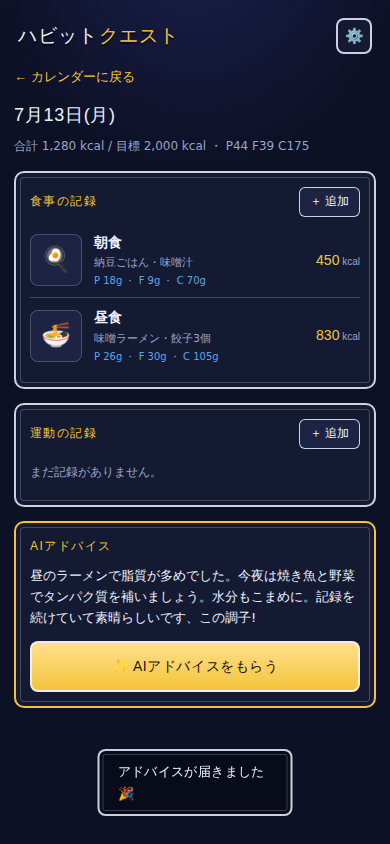
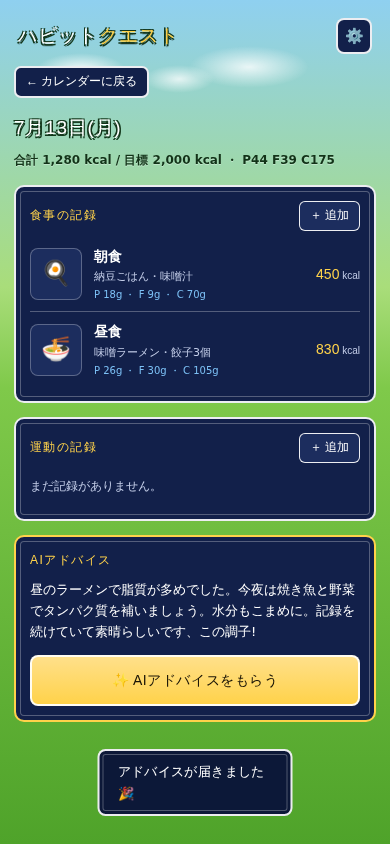
Brighten theme to a sunny DQ-style grass field
- Sky-to-grass gradient background with drifting clouds
- Slime now stands on a grassy patch
- Keep navy command-window panels for content legibility
- DQ-style outlined title/date text so it reads on the bright field
- Refresh docs screenshots to the new theme

Claude-Session: https://claude.ai/code/session_01BCsd7PyLccZkxgA9eZQ2o5

diff --git a/style.css b/style.css
@@ -3,21 +3,26 @@
    ダーク単一テーマ。パネルは .rpg ウィンドウ風の二重枠で統一する。 */
 
 :root {
-  --bg: #0d1126;
-  --bg-deep: #080b1a;
-  --panel: #151a33;
-  --panel2: #1d2342;
-  --ink: #eef1ff;
-  --muted: #9aa3c7;
-  --line: rgba(238, 241, 255, 0.85);
-  --line-dim: rgba(238, 241, 255, 0.22);
-  --gold: #f5c33b;
-  --gold-deep: #c99a1d;
-  --blue: #58a6e8;
-  --ok: #4ec97a;
-  --danger: #e05e5e;
-  --exp: linear-gradient(90deg, #f5c33b, #ffe08a);
-  --shadow: 0 10px 30px rgba(0, 0, 0, 0.55);
+  /* ドラクエの戦闘フィールド風:明るい草原+空。パネルは視認性重視で紺のコマンドウィンドウ */
+  --sky: #8fd0f0;
+  --grass-far: #7fc94a;
+  --grass-near: #4fa32a;
+  --panel: #12204a;         /* 定番の紺色コマンドウィンドウ */
+  --panel2: #1c2d5e;
+  --bg-deep: #0c1838;
+  --ink: #ffffff;
+  --muted: #c3cde8;
+  --ink-dark: #16351a;      /* 明るい面に載せる濃い文字 */
+  --muted-dark: #3f6b3a;
+  --line: rgba(255, 255, 255, 0.92);
+  --line-dim: rgba(255, 255, 255, 0.28);
+  --gold: #ffd24a;
+  --gold-deep: #d99f1d;
+  --blue: #7cc0f5;
+  --ok: #57d074;
+  --danger: #ff7a6b;
+  --exp: linear-gradient(90deg, #ffd24a, #fff0a8);
+  --shadow: 0 8px 22px rgba(20, 50, 20, 0.30);
   --font-dot: "DotGothic16", "Hiragino Kaku Gothic ProN", sans-serif;
 }
 
@@ -25,14 +30,33 @@
 
 body {
   margin: 0;
+  /* 上=空、下=草原。fixedで画面全体をフィールドに */
   background:
-    radial-gradient(ellipse 90% 50% at 50% -10%, #1b2150 0%, transparent 60%),
-    var(--bg);
+    linear-gradient(180deg,
+      var(--sky) 0%,
+      #a9dd7a 34%,
+      var(--grass-far) 46%,
+      var(--grass-near) 100%);
+  background-attachment: fixed;
   color: var(--ink);
   font-family: "Hiragino Kaku Gothic ProN", "Hiragino Sans", "Noto Sans JP", "Yu Gothic UI", system-ui, sans-serif;
   line-height: 1.65;
   -webkit-font-smoothing: antialiased;
 }
+/* ふわっと浮かぶ雲 */
+body::before {
+  content: "";
+  position: fixed;
+  top: 5%; left: 0; right: 0;
+  height: 60px;
+  background:
+    radial-gradient(closest-side, rgba(255,255,255,.9), transparent) 12% 40% / 90px 34px no-repeat,
+    radial-gradient(closest-side, rgba(255,255,255,.8), transparent) 70% 20% / 120px 42px no-repeat,
+    radial-gradient(closest-side, rgba(255,255,255,.75), transparent) 45% 70% / 70px 28px no-repeat;
+  pointer-events: none;
+  z-index: 0;
+}
+.app { position: relative; z-index: 1; }
 
 .app {
   max-width: 480px;
@@ -62,7 +86,12 @@ body {
   font-family: var(--font-dot);
   font-size: 19px;
   letter-spacing: .06em;
-  text-shadow: 0 2px 0 rgba(0, 0, 0, .6);
+  color: #fff;
+  /* 明るいフィールドでも読めるようDQロゴ風の濃い縁取り */
+  text-shadow:
+    -1.5px -1.5px 0 #12351a, 1.5px -1.5px 0 #12351a,
+    -1.5px 1.5px 0 #12351a, 1.5px 1.5px 0 #12351a,
+    0 3px 0 rgba(0, 0, 0, .25);
 }
 .brand span { color: var(--gold); }
 .icon-btn {
@@ -97,12 +126,13 @@ body {
 }
 .slime-stage {
   width: 92px; height: 92px; flex: none; position: relative;
+  /* スライムが草原に立っているように */
   background:
-    radial-gradient(ellipse 60% 22% at 50% 88%, rgba(0,0,0,.5), transparent 70%),
-    linear-gradient(180deg, #232a52 0%, #171c38 100%);
+    radial-gradient(ellipse 55% 20% at 50% 90%, rgba(0,0,0,.18), transparent 70%),
+    linear-gradient(180deg, #bfe8f5 0%, #bfe8f5 42%, #7fc94a 42%, #4fa32a 100%);
   border: 2px solid var(--line-dim);
   border-radius: 8px;
-  overflow: visible;
+  overflow: hidden;
 }
 .slime {
   position: absolute; inset: 0;
@@ -355,21 +385,34 @@ body {
 
 /* ---------- day detail ---------- */
 .back {
-  background: none; border: none;
-  color: var(--gold);
-  font: inherit; font-size: 13px;
+  /* 明るい地面に載るので小さなコマンドウィンドウ風に */
+  background: var(--panel);
+  border: 2px solid var(--line);
+  color: #fff;
+  font: inherit; font-size: 12px;
   cursor: pointer;
-  padding: 0;
+  padding: 4px 10px;
+  border-radius: 7px;
   align-self: flex-start;
   font-family: var(--font-dot);
 }
 .detail-date {
   font-family: var(--font-dot);
-  font-size: 18px;
+  font-size: 19px;
   margin: 0;
   letter-spacing: .04em;
+  color: #fff;
+  text-shadow:
+    -1.5px -1.5px 0 #12351a, 1.5px -1.5px 0 #12351a,
+    -1.5px 1.5px 0 #12351a, 1.5px 1.5px 0 #12351a;
 }
-.detail-sub { font-size: 12px; color: var(--muted); margin: -8px 0 0; }
+.detail-sub {
+  font-size: 12px;
+  color: #123318;
+  font-weight: 600;
+  margin: -6px 0 0;
+  text-shadow: 0 1px 0 rgba(255, 255, 255, .35);
+}
 
 .card {
   background: var(--panel);

diff --git a/index.html b/index.html
@@ -3,7 +3,7 @@
 <head>
   <meta charset="UTF-8" />
   <meta name="viewport" content="width=device-width, initial-scale=1.0" />
-  <meta name="theme-color" content="#0d1126" />
+  <meta name="theme-color" content="#8fd0f0" />
   <title>ハビットクエスト</title>
   <link rel="preconnect" href="https://fonts.googleapis.com" />
   <link rel="preconnect" href="https://fonts.gstatic.com" crossorigin />
